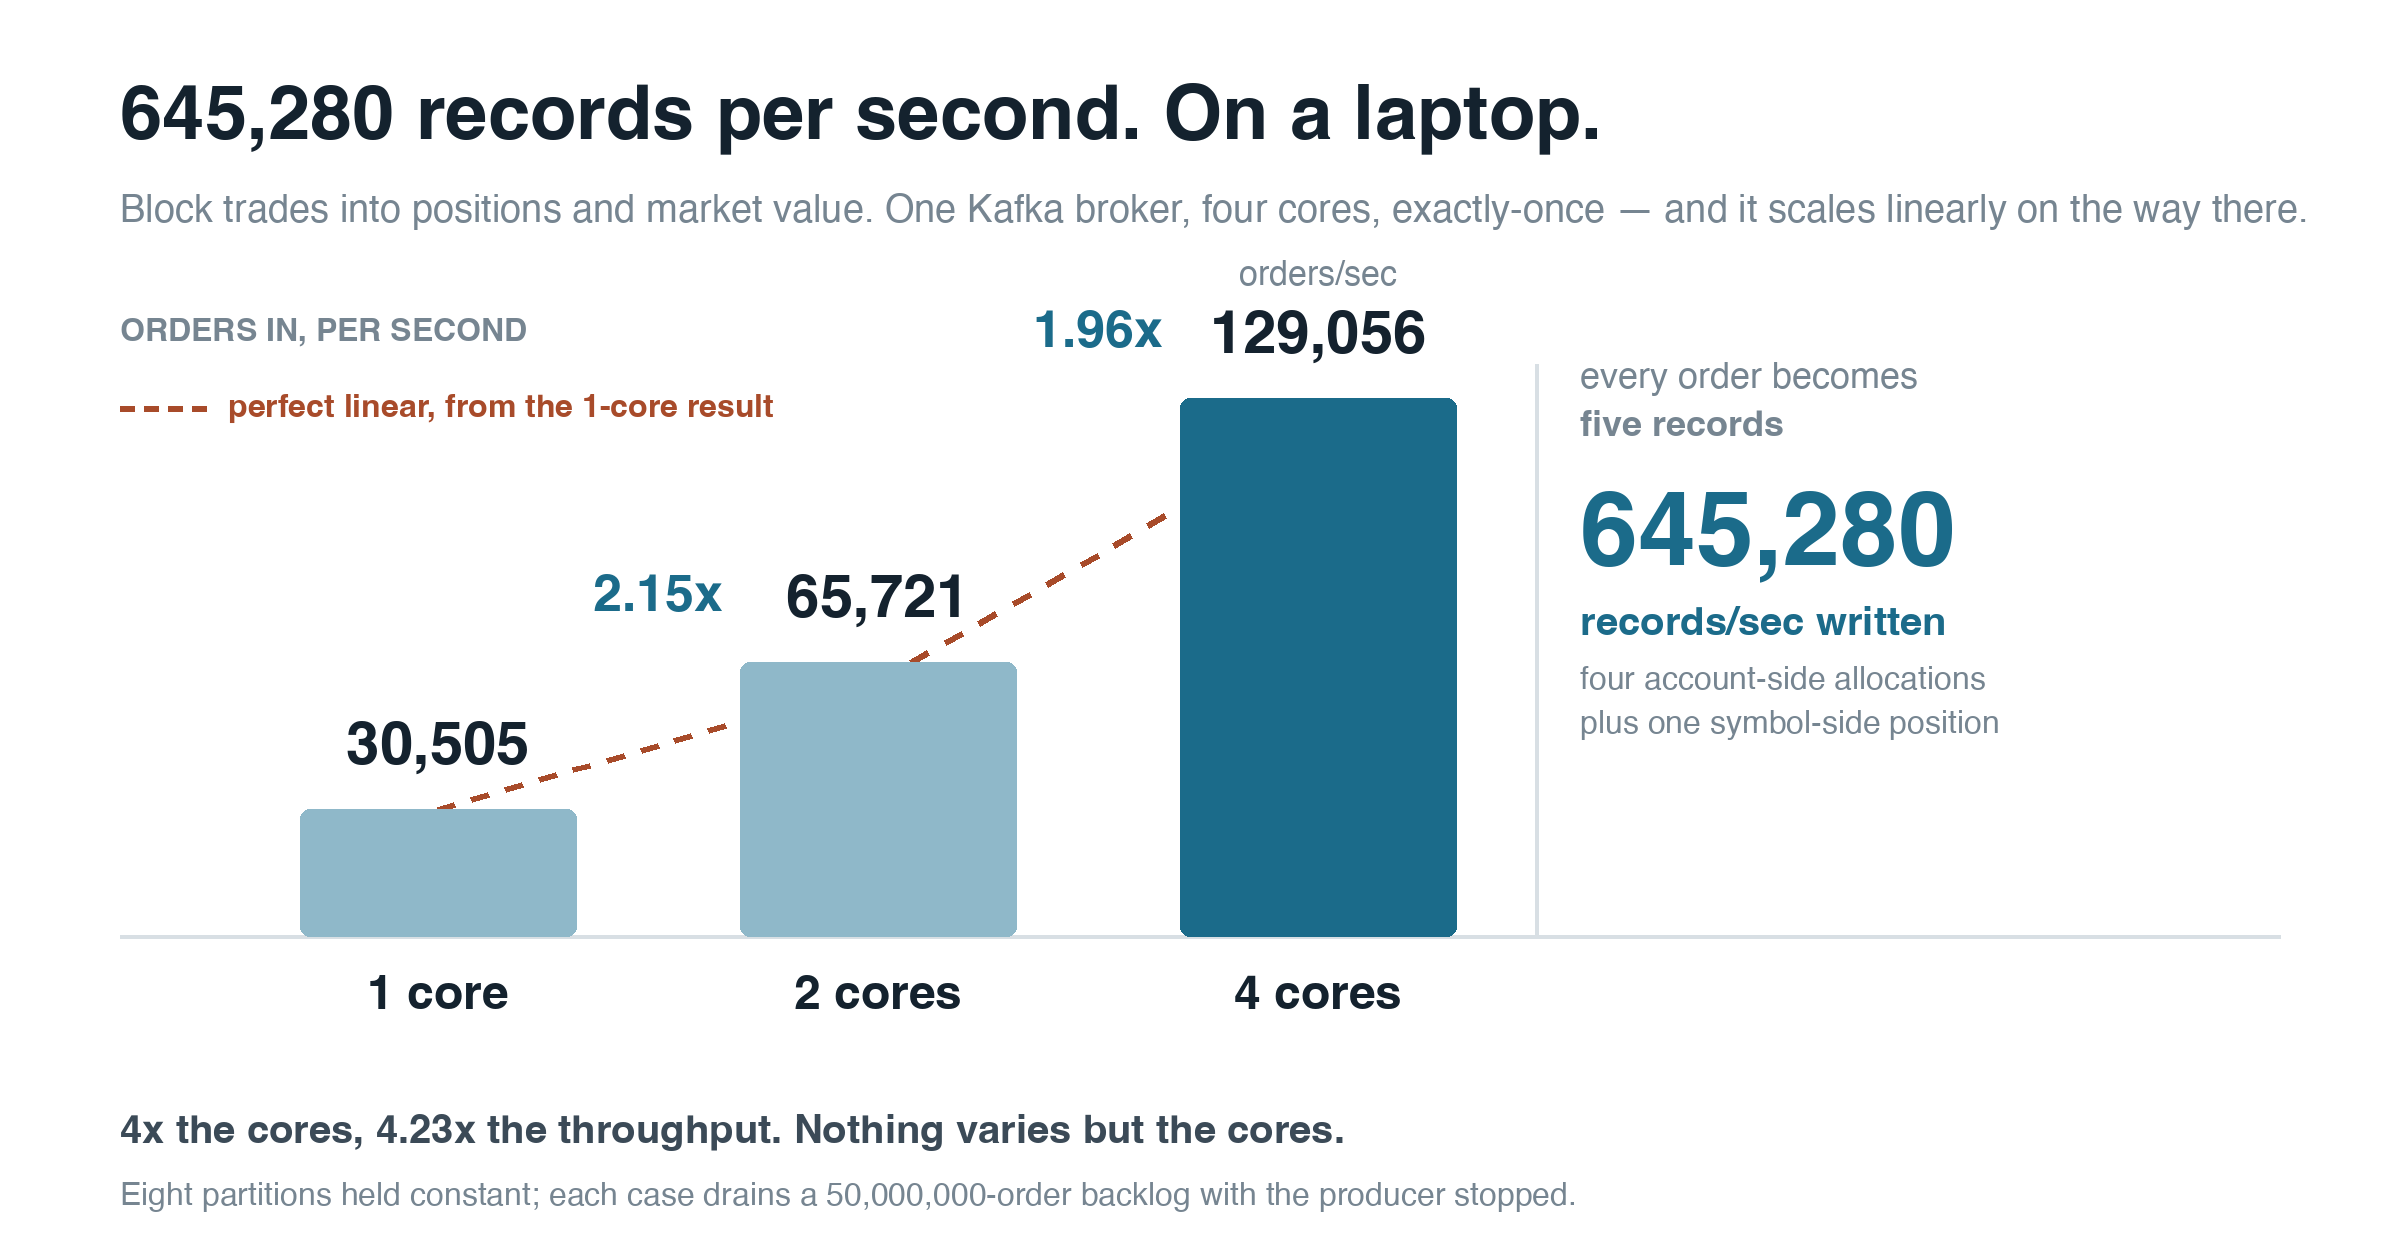
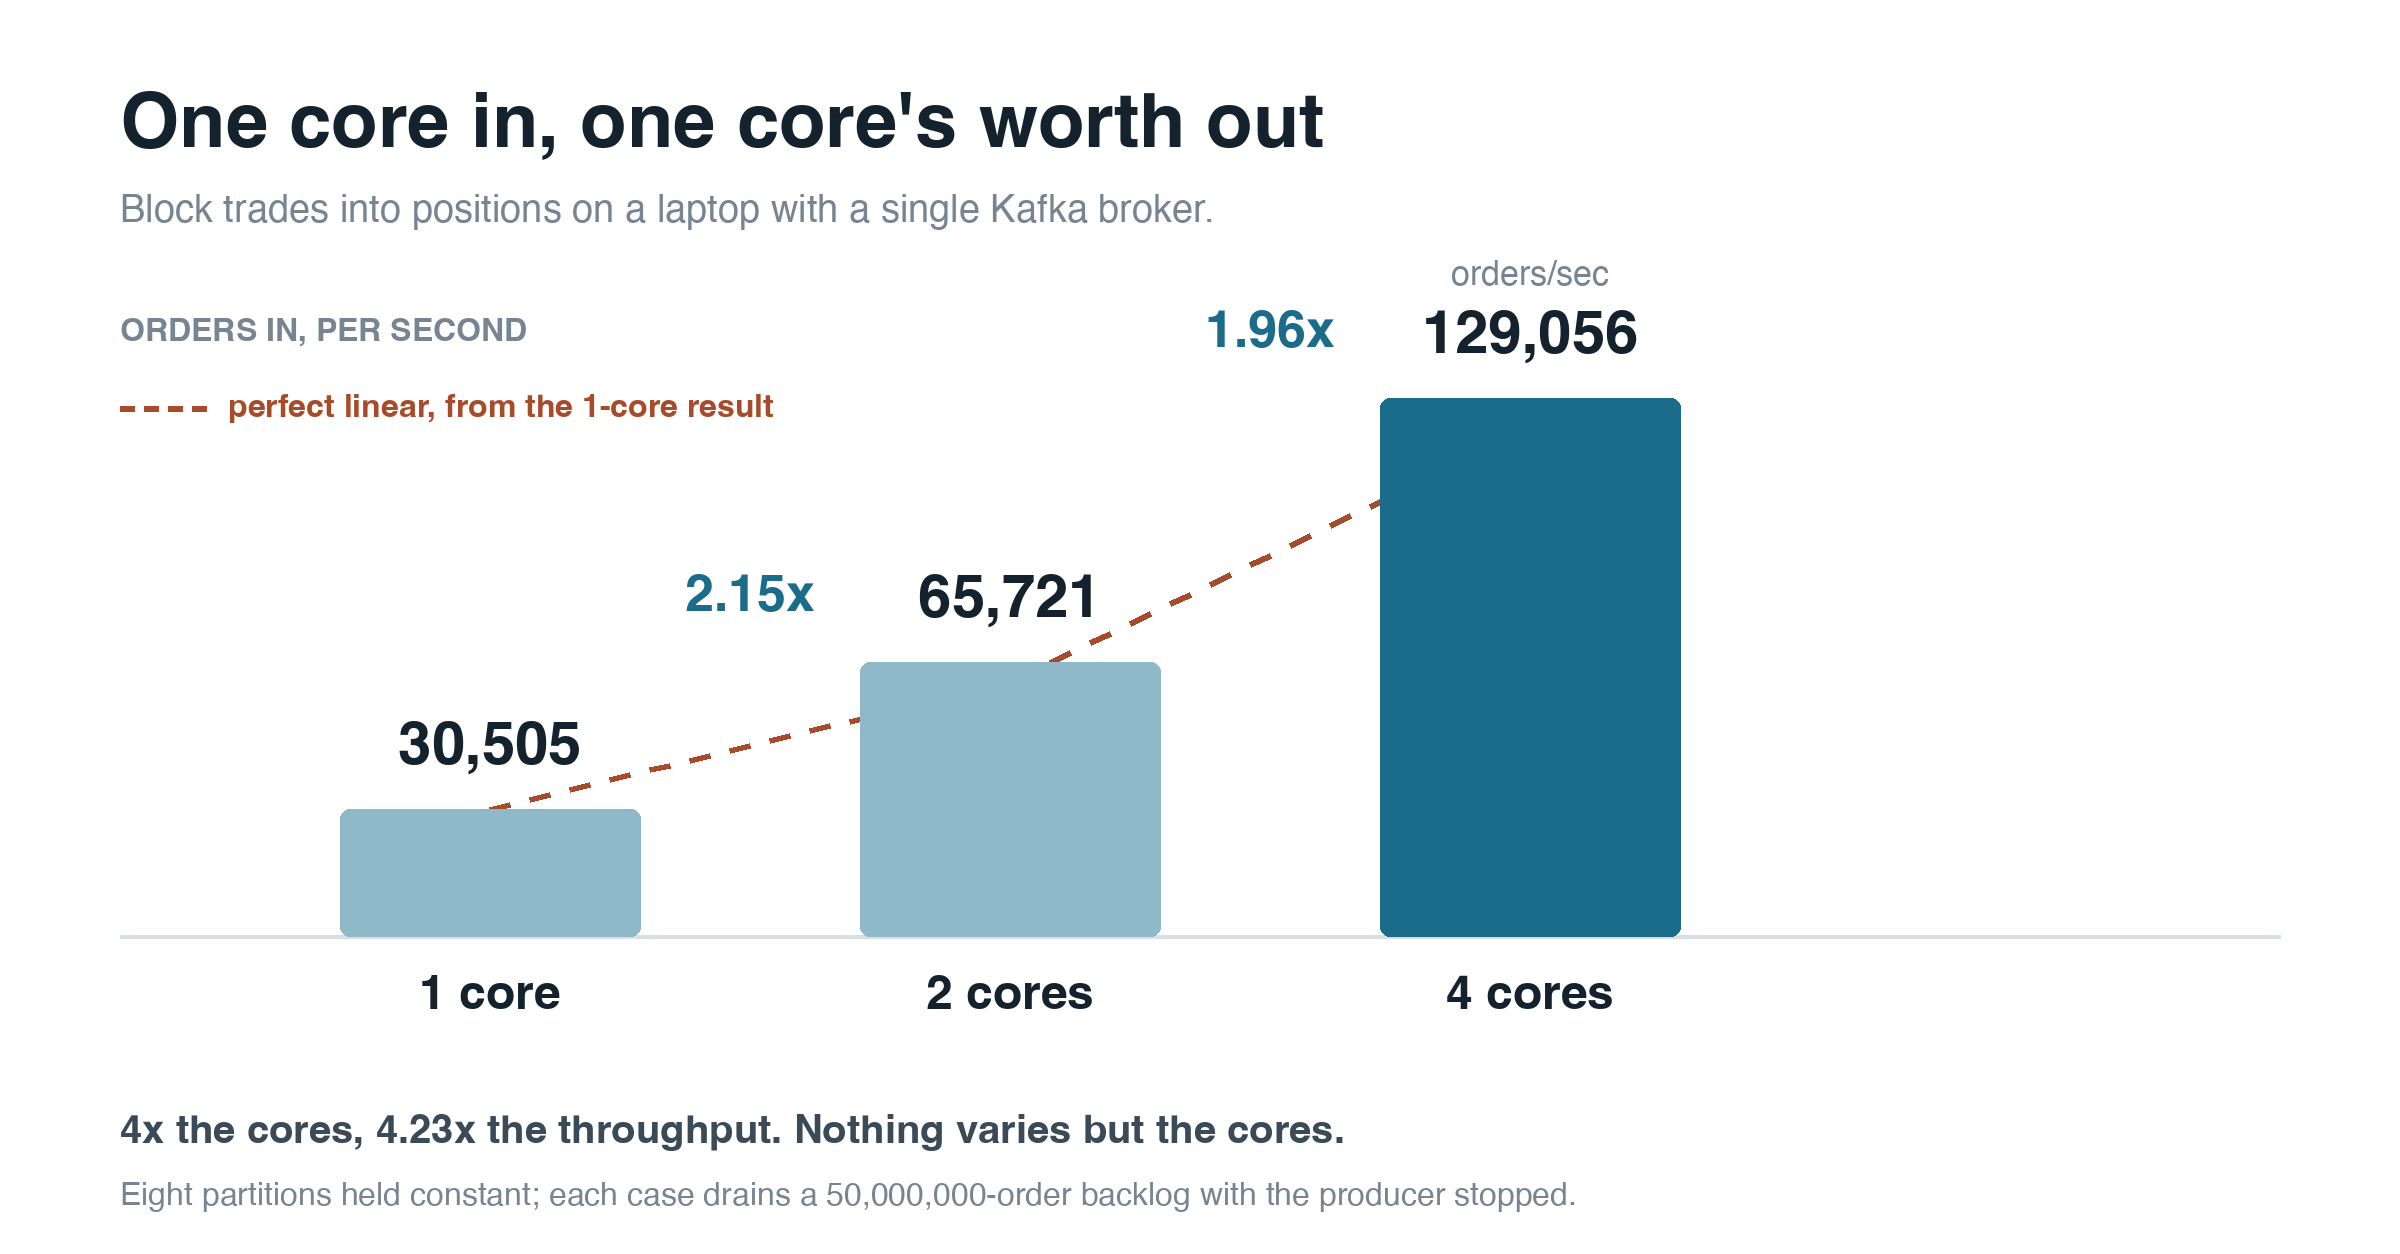
docs: back to the input story; drop the output figure from the graphic
The 645,280 callout took the chart over -- a large second number competing with
the bars it was meant to support, and the title stopped being about scaling at
all. Removed from the image and from the posted text.

The graphic is one thing again: orders in per second at 1, 2 and 4 cores,
against a perfect-linear reference. Title back to "One core in, one core's
worth out". Bars back to full width now that no callout column needs room.

Kept from the intervening rounds: the cores axis, the "ORDERS IN, PER SECOND"
label, and the legend that replaced the caption which kept colliding.

The fan-out is recorded in the provenance block rather than deleted, since it
is true and cheap to restore.

Claude-Session: https://claude.ai/code/session_01AjapJuaeAp3sRNXvHzMkVB

diff --git a/scripts/article-chart.py b/scripts/article-chart.py
@@ -35,11 +35,10 @@ def font(sz, bold=False):
 im = Image.new("RGB", (W, H), BG)
 d = ImageDraw.Draw(im)
 
-d.text((60 * S, 40 * S), "645,280 records per second. On a laptop.",
+d.text((60 * S, 44 * S), "One core in, one core's worth out",
        font=font(38, True), fill=INK)
 d.text((60 * S, 96 * S),
-       "Block trades into positions and market value. One Kafka broker, four cores, "
-       "exactly-once — and it scales linearly on the way there.",
+       "Block trades into positions on a laptop with a single Kafka broker.",
        font=font(19), fill=MUTED)
 
 BASE = int(468 * S)                      # baseline y
@@ -53,8 +52,8 @@ d.line([(60 * S, BASE), (1140 * S, BASE)], fill=RULE, width=int(2 * S))
 # what the bars measure, stated once where the eye lands before reading them
 d.text((60 * S, 158 * S), "ORDERS IN, PER SECOND", font=font(16, True), fill=MUTED)
 
-BW = int(138 * S)
-XS = [int(x * S) for x in (150, 370, 590)]
+BW = int(150 * S)
+XS = [int(x * S) for x in (170, 430, 690)]
 
 # ideal-linear reference, computed from the one-core result
 per_unit = CASES[0][1]
@@ -101,16 +100,6 @@ for i, (units, val) in enumerate(CASES):
         m = STEPS[i - 1]
         w = d.textlength(m, font=font(26, True))
         d.text((mx - w / 2, BASE - bh - 46 * S), m, font=font(26, True), fill=BAR)
-
-# the fan-out: what the four-core case actually writes
-cx = int(790 * S)
-d.line([(cx - 22 * S, TOP + 6 * S), (cx - 22 * S, BASE)], fill=RULE, width=int(2 * S))
-d.text((cx, TOP + 4 * S), "every order becomes", font=font(18), fill=MUTED)
-d.text((cx, TOP + 28 * S), "five records", font=font(18, True), fill=MUTED)
-d.text((cx, TOP + 66 * S), "645,280", font=font(52, True), fill=BAR)
-d.text((cx, TOP + 126 * S), "records/sec written", font=font(20, True), fill=BAR)
-d.text((cx, TOP + 156 * S), "four account-side allocations", font=font(16), fill=MUTED)
-d.text((cx, TOP + 178 * S), "plus one symbol-side position", font=font(16), fill=MUTED)
 
 d.text((60 * S, 556 * S),
        "4x the cores, 4.23x the throughput. Nothing varies but the cores.",
